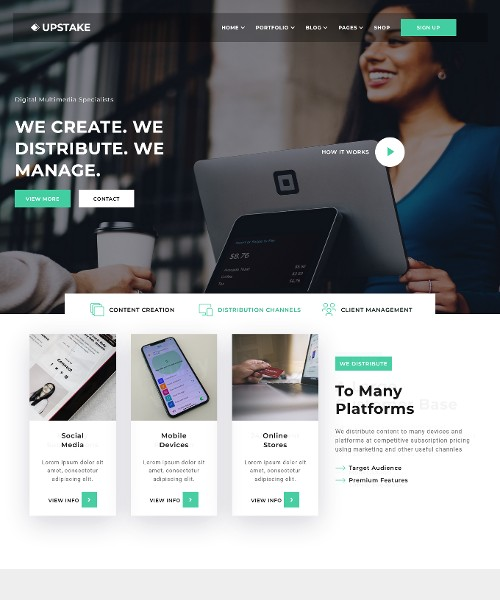
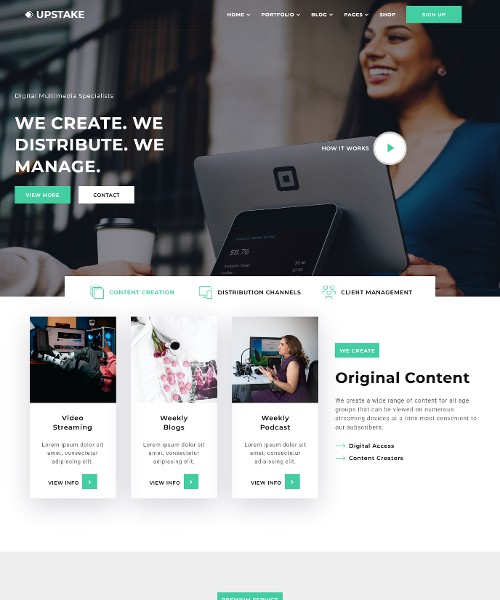
add fies

diff --git a/digital-media.css b/digital-media.css
@@ -231,18 +231,17 @@ ul{
 }
 
 .header {
-	position: relative;
+	position: absolute;
 	display: block;
 	top: 0;
-	width: calc(100% - 50px);
-	max-width: 1280px;
+	left: 0;
+	width: 100%;
 	height: auto;
-	padding: 1rem;
-	margin-left: auto;
-	margin-right: auto;
-	z-index: 999;
-	margin-top: 35px;
-	background: rgba(0,0,0,0.3);
+	padding: 1rem 0;
+	margin: 0 auto;
+	z-index: 99999;
+	border: none;
+	border-bottom: solid 1px #6f6f6f;
 	outline: none;
 }
 
@@ -261,6 +260,13 @@ ul{
 	display: flex;
     flex: 0 0 80%;
 	justify-content: flex-end;
+}
+
+.header-item-right {
+	display: flex;
+    flex: 0 0 3%;
+    align-items: center;
+    justify-content: flex-end;
 }
 
 .head_btn{
@@ -443,7 +449,6 @@ ul{
 /* --- 2.2. Header Content --- */
 .sliderwrap{
 	position: relative;
-	top: -140px;
 }
 
 .main_content{
@@ -669,7 +674,7 @@ ul{
 	margin-left: auto;
 	margin-right: auto;
 	background-color: #ffffff;
-	margin-top:  -195px;
+	margin-top:  -55px;
 	padding: 25px 25px 0;
 	position: relative;
 	z-index: 9999;
@@ -890,10 +895,10 @@ ul{
 
 .content_button a::after{
 	content: "\203A";
-	margin-left: 6px;
+	margin-left: 9px;
 	padding-top: 5px;
-	width: 42px;
-	height: 38px;
+	width: 40px;
+	height: 36px;
 	font-size: 24px;
 	margin-top: -13px;
 	display: inline-block;
@@ -982,7 +987,7 @@ ul{
 	display: inline-block;
 	background-color: #43cea2;
 	color: #ffffff;
-	padding: 12px;
+	padding: 15px 12px;
 }
 
 /* --- 3.3. Digital Area Three --- */
@@ -1071,8 +1076,8 @@ ul{
 }
 
 .square_num{
-	width: 65px;
-	height: 65px;
+	width: 70px;
+	height: 70px;
 	margin: auto;
 	background-color: #43cea2;
 	border-radius: 50%;
@@ -1325,6 +1330,7 @@ ul{
 	letter-spacing: 1px;
 	text-align: center;
 	line-height: 1.2em;
+	margin: 0;
 }
 
 .price_box h4{
@@ -1335,7 +1341,6 @@ ul{
 	color: #696969;
 	letter-spacing: 1px;
 	text-align: center;
-	padding-top: 6px;
 }
 
 .center_value,
@@ -1496,7 +1501,7 @@ ul{
 	letter-spacing: 1px;
 	text-align: left;
 	line-height: 1.5em;
-	padding-top: 15px;
+	padding-top: 10px;
 	max-width: 450px;
 }
 
@@ -1512,7 +1517,7 @@ ul{
 	color: #111111;
 	letter-spacing: 1px;
 	text-align: left;
-	padding: 6px 0;
+	padding: 10px 0;
 }
 
 .info_list > ul > li::before{
@@ -1859,10 +1864,10 @@ a.blog_btn{
 
 a.blog_btn::after{
 	content: "\203A";
-	margin-left: 6px;
+	margin-left: 9px;
 	padding-top: 5px;
-	width: 42px;
-	height: 38px;
+	width: 40px;
+	height: 36px;
 	font-size: 24px;
 	margin-top: -13px;
 	display: inline-block;
@@ -1904,7 +1909,7 @@ a.blog_btn::after{
 	width: 100%;
 	display: flex;
 	flex-wrap: wrap;
-	margin-top: -45px;
+	margin-top: -65px;
 }
 
 .client_col{
@@ -1915,14 +1920,14 @@ a.blog_btn::after{
 
 .client_details{
 	max-width: 640px;
-	padding: 20px;
+	padding: 15px;
 	text-align: center;
 	background: rgba(0,0,0,0.5);
 	border-left: solid 4px #43cea2;
 }
 
 .client_info{
-	margin-bottom: -130px;
+	margin-bottom: -120px;
 	clear: both;
 }
 
@@ -1947,7 +1952,7 @@ a.blog_btn::after{
 	color: #dddddd;
 	letter-spacing: 1px;
 	text-align: left;
-	padding: 15px;
+	padding: 10px;
 	line-height: 1.5em;
 }
 
@@ -1961,7 +1966,7 @@ a.blog_btn::after{
 
 .quote_format{
 	font-size: 130px;
-	margin-top: -5px;
+	padding-bottom: 15px;
 	color: #43cea2;
 	display: block;
 	text-align: center;
@@ -1983,7 +1988,7 @@ a.blog_btn::after{
 .digital_area_ten{
 	max-width: 1200px;
 	width: calc(100% - 50px);
-	margin: 0 auto -6.5em;
+	margin: 0 auto -7em;
 	position: relative;
 	z-index: 999;
 	box-shadow: 0 20px 70px rgba(38,42,76,.2);
@@ -1995,30 +2000,31 @@ a.blog_btn::after{
 	width: 100%;
 	display: flex;
 	flex-wrap: wrap;
-	padding: 40px 30px;
+	padding: 4em 30px;
 }
 
-.sign_head{
+.side_heading{
 	flex: 83.33%;
 	width: 83.33%;
 }
 
-.sign_head h3{
+.side_heading h3{
 	max-width: 650px;
 	color: #111111;
 	font-family: 'Montserrat' , Arial, sans-serif;
-	font-size: 30px;
+	font-size: 35px;
 	font-weight: 700;
 	display: block;
 	text-align: left;
 	letter-spacing: 1px;
 	line-height: 1.2em;
+	margin: 0;
 }
 
 .right_btn{
 	flex: 16.66%;
 	width: 16.66%;
-	margin-top: 50px;
+	margin-top: 20px;
 }
 
 .right_btn a{
@@ -2061,7 +2067,7 @@ a.blog_btn::after{
 	padding: 0 25px;
 	display: flex;
 	flex-wrap: wrap;
-	padding-top: 6.5em;
+	padding-top: 7em;
 }
 
 .footer_col{
@@ -2618,10 +2624,10 @@ a.footer-logo img{
 	}
 	
 	.last_space{
-		padding-top: 115px;
+		padding-top: 135px;
 	}
 	
-	.sign_head{
+	.side_heading{
 		flex: 100%;
 		width: 100%;
 	}
@@ -2629,7 +2635,7 @@ a.footer-logo img{
 	.right_btn{
 		flex: 100%;
 		width: 100%;
-		margin-top: 20px;
+		margin-top: 25px;
 	}
 	
 	.footer_col{
@@ -2651,9 +2657,8 @@ a.footer-logo img{
 		font-size: 30px;
 	}
 	
-	.sign_head h3{
+	.side_heading h3{
 		font-size: 25px;
-		margin-top: 0;
 	}
 	
 	.digital_col_box,

diff --git a/digital-media-html.html b/digital-media-html.html
@@ -1366,11 +1366,11 @@
 			
 			<div class="digital_group_ten">
 			
-				<div class="sign_head">
+				<div class="side_heading">
 				
 					<h3>Sign up and become a subscriber to our digital services</h3>
 				
-				</div><!--sign_head-->
+				</div><!--side_heading-->
 				
 				<div class="right_btn">
 				
@@ -1499,7 +1499,7 @@
 	</main><!--page_area-->	
 	
 	<!-- ============== Javascript & Jquery Files ============== -->
-	<script src="jquery.min.js"></script>
+	<script src="jquery-3.7.1.js"></script>
 	<script src="jquery.magnific-popup.min.js"></script>
 	<script src="menuscript.js"></script>
 	<script src="digital-main.js"></script>
